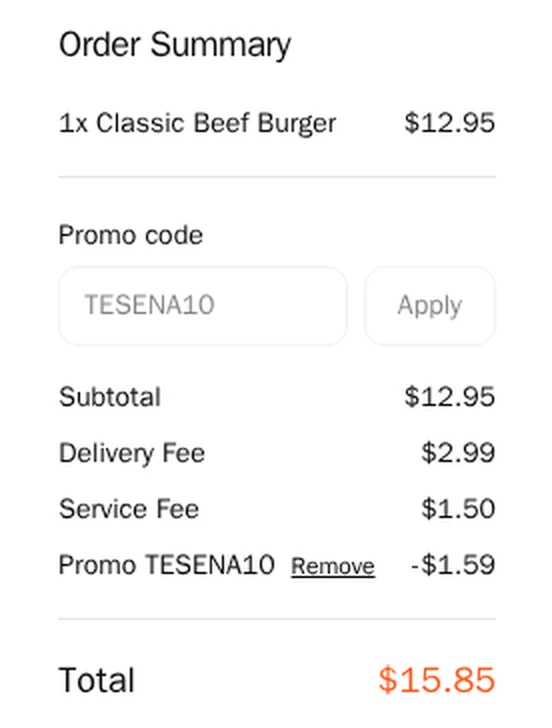
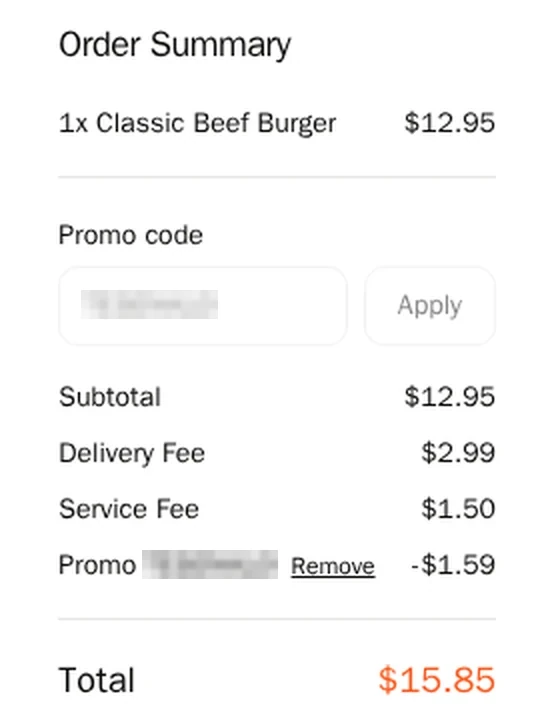
Blog: rename the demo app's promo code to FOODIE10 (#360)

Changed region(s): [[0.2464, 0.7555, 0.5236, 0.8159], [0.154, 0.3929, 0.4004, 0.4533]]

diff --git a/blog/2026-11-03-ai-agent-vs-vibe-coded-app/index.md b/blog/2026-11-03-ai-agent-vs-vibe-coded-app/index.md
@@ -62,9 +62,11 @@ No hints about where the bugs were. No recorded steps. Then I started the agent 
 
 ## What it found, bug by bug
 
-**1. The promo code discounts the fees too.** TESENA10 should take 10% off the food. On a $12.95 burger the agent computed −$1.30 and a total of $16.14. The checkout said −$1.59 and $15.85. The order confirmation repeated $15.85. Both assertions failed, with every number on one screen.
+**1. The promo code discounts the fees too.** FOODIE10 should take 10% off the food. On a $12.95 burger the agent computed −$1.30 and a total of $16.14. The checkout said −$1.59 and $15.85. The order confirmation repeated $15.85. Both assertions failed, with every number on one screen.
 
-![Checkout order summary: subtotal $12.95, delivery fee $2.99, service fee $1.50, promo TESENA10 minus $1.59, total $15.85](./promo-code-checkout.webp)
+![Checkout order summary: subtotal $12.95, delivery fee $2.99, service fee $1.50, promo FOODIE10 minus $1.59, total $15.85](./promo-code-checkout.webp)
+
+_The demo app's promo code is shown as FOODIE10 in this post and blurred in the screenshot._
 
 **2. The promotion never applies.** One restaurant advertises "20% OFF orders over $25". The agent built a $25.90 cart and expected $25.21. It was charged $30.39. It also checked $24.98 (correctly no discount), so we know where the bug starts.
 
@@ -101,10 +103,10 @@ Then one chat prompt: "What else should a careful tester check in this shop befo
 The third part matters more than it looks. Agents assume. If you don't tell an agent when to fail, it will find a reason to pass. Here is the shape of one test the agent ran:
 
 ```text
-Goal:     TESENA10 discounts food only
+Goal:     FOODIE10 discounts food only
           and matches the confirmation total.
 Data:     1x Classic Beef Burger, guest checkout,
-          promo code TESENA10.
+          promo code FOODIE10.
 Pass if:  Discount = 10% of the food subtotal;
           checkout total = confirmation total.
 Fail if:  The discount includes delivery or

diff --git a/blog/2026-11-13-ai-written-playwright-tests-planted-bugs/index.md b/blog/2026-11-13-ai-written-playwright-tests-planted-bugs/index.md
@@ -68,7 +68,7 @@ Scripted tests are consistent: 94 live, and 94 in every rehearsal run on the sam
 
 ## Bug by bug
 
-**A. The discount is shown, not taken** (caught, 3 red). The promo code TESENA10 shows −$1.30 on a $12.95 burger, but the total stays $17.44. It should be $16.14. Three tests check the total and failed. Three other promo tests check only the "−$1.30" line, and stayed green.
+**A. The discount is shown, not taken** (caught, 3 red). The promo code FOODIE10 shows −$1.30 on a $12.95 burger, but the total stays $17.44. It should be $16.14. Three tests check the total and failed. Three other promo tests check only the "−$1.30" line, and stayed green. (The demo app's promo code is shown as FOODIE10 in this post.)
 
 **B. The "−" button deletes the dish** (caught, 1 red). With 2 burgers in the cart, "−" should leave 1. The refactor empties the cart. Only one test of the 100 presses "−", and it came with the 5-case top-up. Without the top-up, this bug ships.
 
